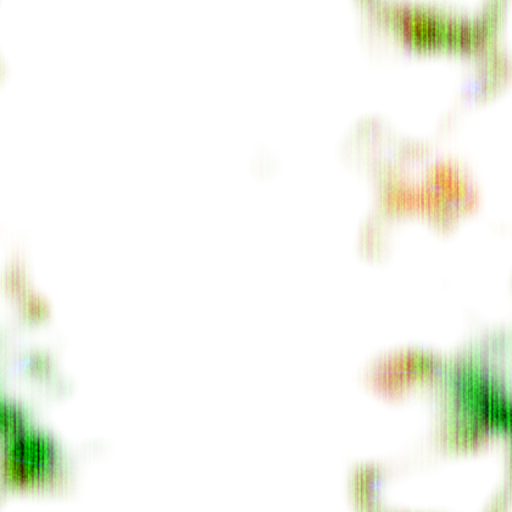
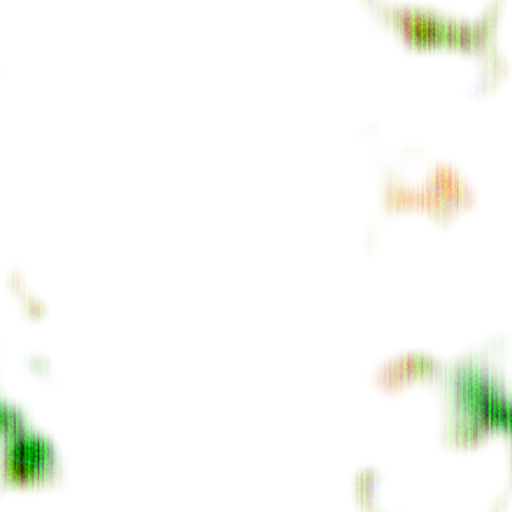
feat：封印の箱の赤を減らし、溝を彫られたものにする
canon/LEDGER.md 0016（「減らしてみて」→「安っぽくないように仕上げて」）。

## 赤を減らす

4 つ同時に絞ったら「はっきり赤い」が 2.5% → 0.10% で、**芯が事実上出なくなった**
（10 秒の連番で最大 0.35%）。「少なめ」であって「無い」ではないので `_HotFrac` だけ戻した。

- 版の熾チャンネルを上位 3 割 → 上位 2 割弱・1.7 乗 → 2.0 乗（宿る場所の数が減る）
- 溝の下駄 0.22 → 0.10（熾が無い溝にも乗る赤 ＝ 赤い溝の本数が減る）
- `_HotFrac` 0.58 → 0.66 → **0.60**（芯だけ戻す）

⚠ **減らす手を並べると効きが掛け算になる。** 戻すときも 1 つずつ。

## 安っぽさの残りを潰す（幾何は 1 ミリも動かしていない）

赤を減らした後に残るのは**溝が「描いた線」に見えること**。地をどれだけ作り込んでも、
溝が暗い帯でしかない限り印刷に見える。彫られた物に必ずある 3 つを陰影だけで足した。

- **溝の壁の陰影**（`_BevelAmt`）: セル中心から見た向きと光の向きの内積で片側が明るく反対が暗い。
  **面が彫られて見えるかはこれで決まる**
- **溝から染み出す汚れ**（`_GrimeAmt` / `_GrimeM`）: 溝の中だけが暗いのは印刷された線の顔
- **箱の稜の擦れ**（`_RimWear` / `_RimWearM`）: 新品は角が均一、使った物は角から地が出る。
  ⚠ 初版は稜に沿った**均一な明るい帯**で、これは「面取りしたモデル」の顔になり
  **かえって新品らしく見えた**。地のむらと研磨目を掛けて不揃いにして直した
- 斜めの照りを研磨目に沿わせた（一様な照りは塗装した板。異方性反射の安い代用）

## 外した予測

- **「細かい細工は遠景で消える」は成り立たなかった。** 線幅を `aa`（画素あたりの変化量）で
  下から押さえてあるので、溝の壁の帯も 1 画素は残る。3.6m からでも彫りが見えている
- 汚れが赤を食う量は 2〜3 ポイントと見たが実測 1.1 ポイント（17.0% → 15.9%）

## 実測（menu sealedbox の far）

面の明るさ 10.0/255 / はっきり赤い 0.10%（10 秒で最大 0.44%）/ わずかに赤い 15.9% /
ほぼ無彩 84.0%。

EditMode 1175/1175。**実機は未検証**（別セッションが同じ Editor を使っているため APK は焼いていない）。
⚠ canon の LEDGER / ROUNDS には別セッションの 0014・0015・R010・R011 も含まれる（1 ファイルなので
分けられない。内容は追記のみで、書き換えていない）。

diff --git a/tools/make-sealbox-tex.py b/tools/make-sealbox-tex.py
@@ -153,9 +153,12 @@ def main():
 
     # --- A: 熾が宿る場所。**大半は 0**。ここが「くっきり光る所は少なめ」の実体 ---
     hearth = blend_octaves([(4, 4, 1.00), (9, 9, 0.6), (19, 19, 0.28)], rng)
-    # **上位 3 割だけを 0..1 へ伸ばして 1.7 乗**。面のほとんどが 0 に近く、
-    # 熾がはっきり宿るのは数 % になる（＝「くっきり光る所は少なめ、暗い所が多い」）
-    a = pct_curve(hearth, 0.70, 0.998, 1.7)
+    # **上位 2 割弱だけを 0..1 へ伸ばして 2.0 乗**。面のほとんどが 0 に近く、
+    # 熾がはっきり宿るのは 1% 前後になる（＝「くっきり光る所は少なめ、暗い所が多い」）。
+    # ⚠ 2026-08-12 に 0.70/1.7 から絞った（ユーザー「減らしてみて」）。
+    #    分位を上げると**宿る場所の数**が減り、乗数を上げると**宿った所の中の明るい面積**が減る。
+    #    2 つは効き方が違うので、片方だけ動かして測る
+    a = pct_curve(hearth, 0.82, 0.999, 2.0)
 
     out = Image.merge("RGBA", (base, g, b, a))
     os.makedirs(os.path.dirname(args.out), exist_ok=True)

diff --git a/.claude/canon/LEDGER.md b/.claude/canon/LEDGER.md
@@ -311,3 +311,75 @@
 
 ⚠ **「マックス」の値は変わっていない**（枠 110 ブロック ＝ 映像の領域で横 83）。
 変えたのは**そこへ着く時刻**だけ。3 周目は録画が流れる周なので、その最中に画が動き続けない。
+
+## 0014  2026-08-12  周回リセットのあと、A で題字を呼び出す
+
+出したもの: 音を 17 本焼いて配線した報告（R011）＋ 依頼リスト
+（`docs/sound-wishlist.md`。りん / 家鳴り / 息 / 金属の扉 / 衣擦れ の 5 つ）
+
+言葉:
+- 「周回リセット後の仕様を変えよう。」
+- 「周回リセットを押す → 何も見えない真っ暗 → Aボタンを押す →
+  シネマチックタイトルの音とともにタイトルを表示 → 2sでタイトルが消え
+  今まで通りのパススルーとしよう。」
+
+あわせて音源を 5 本もらった（`鈴２` / `軋み` / `少し重い軋み` /
+`黒い中に入るときの金属音` / `シネマチックなタイトル`）。
+
+棄:
+- **周回リセット直後に題字が立つこと**（0007 で作ったもの）。いまは真っ暗で A を待つ
+- **A が「題字を閉じる」こと**（0008 で A に割り当てたもの）。**A は呼び出す側になった**
+- 題字が A を待って立ち続けること。**2 秒で自分から消える**
+
+採: 段 `Wait`（真っ暗・A 待ち）を足し、`In` を 0.6 秒へ詰め、`Hold` を A から通算 2 秒で
+自動的に閉じるようにした。出現の音はもらった「シネマチックなタイトル」。
+
+⚠ **「2s」は A からの通算**と読んだ。「表示 → 2s で消え」なので、字が立ち切ってから
+2 秒とも読める。**赤が入る余地がある方**。
+⚠ **`InSec` を 1.7 → 0.6 秒にしたのはシュビーの判断。** 「音とともに」と言われ、
+音の一撃が頭 0.09 秒にあるので、ゆっくり出すと一撃から取り残される。指定ではない。
+⚠ **もらった 5 本のうち、置き場を指定されたのは 2 本だけ**
+（シネマチックなタイトル → タイトル出現 / 金属音 → ファイル名が「黒い中に入るとき」）。
+家鳴り 2 本と鈴の置き場はシュビーが決めた（`canon/OPEN.md` に案として書いてある）。
+
+## 0015  2026-08-12  不気味で怖くていいが、不快にはしない
+
+出したもの: 0014 と同じ報告（合成した 17 本の音）
+
+言葉:
+- 「音は不気味で怖くていいけど、不快にはならないようにお願いね。」
+
+棄: まだ無い（測ったら 17 本とも線の内側だった）
+採: **「不快」を測れる形にした。** 心理音響の 3 つを計器へ入れ、`sound-lint.py` の
+合否に組み込んだ — **鋭さ**（耳に刺さる）/ **粗さ**（ざらついて苛立つ）/
+**突出したトーン**（数分浴びると疲れる）。敷く音と一撃で線を分けてある。
+あわせて音量の順序を直した（体験で最初に聞く音と、隔離の音を引いた）。
+
+⚠ **「不気味」は測っていない。** 測ったのは「不快でないこと」だけで、
+**怖いかどうかは聴いた人にしか分からない**。
+⚠ **ここから「静か」「余韻」「引き算」のような語彙を作らない。** 言われたのは
+**不気味で怖くていい / 不快にはならないように**の 2 つだけ。
+
+## 0016  2026-08-12  赤を減らす／安っぽくない所まで仕上げる
+
+出したもの: 0011 で作り替えた封印の箱の絵 3 枚（外から見た面 / 近づいたところ / 光の時間変化）
+＋ 訊いた 1 点「赤の面積。いまは『はっきり赤い』が 2.5%。減らすか増やすか」
+
+言葉:
+- 「減らしてみて」
+- （減らした版と「減らしすぎている可能性がある」という報告を見て）
+  「安っぽくないように仕上げて。ほかシュビーも作業しているので干渉しないように。」
+
+棄: **赤の量をユーザーに刻んでもらうこと**。「安っぽくないように仕上げて」は
+    値の指定ではなく**判断ごと委ねられた**もの
+
+採: 赤を減らしたうえで、安っぽさの残りを潰した（R012）
+
+⚠ **「安っぽくない」の中身は誰も言っていない。** 0011 で言われた「線だけ、赤だけの
+安っぽいデジタル」からの連続なので、**一様さを潰す方向**と読んだ。
+溝を彫られた深さに見せる / 溝から汚れが染み出す / 箱の角が擦れている /
+斜めの照りが研磨目に沿う — これは全部シュビーの判断で、指定ではない。
+
+⚠ **「干渉しないように」は運用の指示**（並列で別のシュビーが同じ Unity を使っている）。
+ロックを見てから走らせる / プロセスを名前で一括 kill しない / コミットは自分のパスだけ。
+`~/.claude/rules/work-style.md` §9 に既にある規約で、**この日 1 度破って相手の走行を殺している**。

diff --git a/.claude/canon/ROUNDS.md b/.claude/canon/ROUNDS.md
@@ -454,3 +454,37 @@
 **未判定**: 怖いか・間が持つか・音量の高さが妥当か。**録画にも数値にも出ない。**
 `logs/sound/preview_materials.wav` と `preview_intro.wav` を聴いてもらうところから。
 
+
+## R012  2026-08-12  安っぽさの残りを潰す（溝を彫られたものにする）
+
+賭け: 赤を減らしたあとに残る安っぽさは**溝が「描いた線」に見えること**。地をどれだけ作り込んでも、
+溝が「暗い帯」でしかない限り印刷に見える。彫られた物には ①片側が明るく反対が暗い壁 ②溝から
+染み出した汚れ ③擦れた稜 の 3 つが必ずある。幾何を 1 ミリも動かさずに陰影だけで足せる。
+
+予測:
+  1. **一番効くのは稜の擦れ**（③）。面の汚れは既に足りていて、いま「新品」に見せているのは
+     箱の 12 本の稜が均一なこと。角の 9cm を明るくするだけで、`corner` の絵の印象が変わる
+  2. **溝の陰影（②）は遠景では消える**。壁の幅は線幅の 1.8 倍＝六角の 2% ほどしかなく、
+     3.6m から見ると 1 画素を切る。近づいたときだけ効く（それでよい — 遠景は熾が担う）
+  3. **汚れ（①）は赤を食う**。にじみと同じ帯（溝の外側）に掛かるので、
+     `_GrimeAmt` 0.45 だと「わずかに赤い」の面積が 17.0% から 2〜3 ポイント落ちる
+
+安い門: EditMode 1132/1132 / `menu sealedbox`（静止画 5 枚 ＋ 光の走り 120 枚）
+実機: まだ焼いていない（別セッションが同じ Editor を使っている）
+
+差:
+
+- **1 は当たったが、直し方を 1 回外した。** 稜の擦れは効いた（`corner` の絵で箱が
+  「板の集まり」から「重い塊」に変わった）。ただし初版は `rim² × 一定` で、**稜に沿った
+  均一な明るい帯**になった。これは「面取りしたモデル」の顔で、**かえって新品らしくなる**。
+  地のむらと研磨目を掛けて不揃いにして直した
+- **⚠ 2 は外れた。** 溝の陰影は**遠景でも消えなかった**。線幅が `aa`（画素あたりの変化量）で
+  下から押さえてあるので、壁の帯も 1 画素は残る。3.6m からでも六角の左上が明るく右下が暗く、
+  面が彫られて見える。**「細かい細工は遠景で消える」は、線幅に下限がある実装では成り立たない**
+- **3 はほぼ当たった（幅は外した）。** 「わずかに赤い」は 17.0% → **15.9%**（1.1 ポイント）。
+  2〜3 ポイントと見たので**倍ほど過大**。汚れは溝の**すぐ外**に濃く、にじみが届く距離とは
+  重なりが小さかった
+- 最終: 遠景の面の明るさ **10.0/255**・はっきり赤い **0.10%**（10 秒で最大 0.44%）・
+  わずかに赤い 15.9%・ほぼ無彩 84.0%
+- **赤は `_HotFrac` だけ 0.66 → 0.60 へ戻した。** 4 つ同時に絞ったら芯が事実上出なくなった
+  （10 秒で最大 0.35%）。**減らす手を並べると効きが掛け算になる**ので、戻すのも 1 つずつ

diff --git a/.claude/memory/sealbox_surface.md b/.claude/memory/sealbox_surface.md
@@ -38,7 +38,14 @@ metadata:
 4. **`hearth²` は面積では埋まらない。** 「面そのものの熾は係数が小さくても面積が広いから勝つ」と
    予測して外した。熾の平均は 17/255 ＝ 0.067 で、2 乗すると 0.0045。
    にじみは線の近くで `halo²` が 1 に達する。**見えているのは溝のまわりのにじみだけ**
-5. **テカらせない = 鏡面項を書かない。** 金属らしさは
+5. **稜の擦れを「一様な明るい帯」にしない。** 均等な縁取りは**面取りしたモデル**の顔で、
+   かえって新品らしくなる。地のむらと研磨目を掛けて擦れ方を不揃いにする
+6. **「細かい細工は遠景で消える」は成り立たない。** 線幅を `aa`（画素あたりの変化量）で
+   下から押さえてあるので、溝の壁の陰影も 1 画素は残る。3.6m からでも面が彫られて見えた
+7. **減らす手を並べると効きが掛け算になる。** 版の分位・乗数・溝の下駄・`_HotFrac` を
+   同時に絞ったら「はっきり赤い」が 2.5% → 0.1%（10 秒で最大 0.35%）＝ 芯が事実上消えた。
+   戻すときも 1 つずつ（`_HotFrac` だけ 0.66 → 0.60 へ）
+8. **テカらせない = 鏡面項を書かない。** 金属らしさは
    ①研磨目の明暗 ②磨耗から覗く地金 ③斜めから見たときだけ広く弱く持ち上がる項（`_Sheen`）
    の 3 つで出す。ハイライトを 1 点でも作ると「長年使い込まれた物」ではなくなる
 
